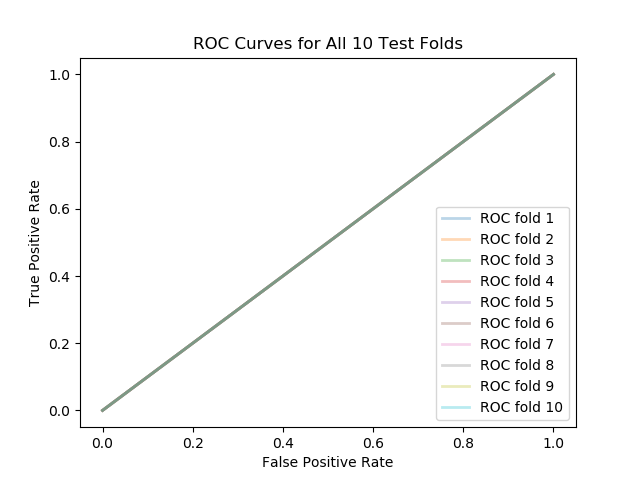
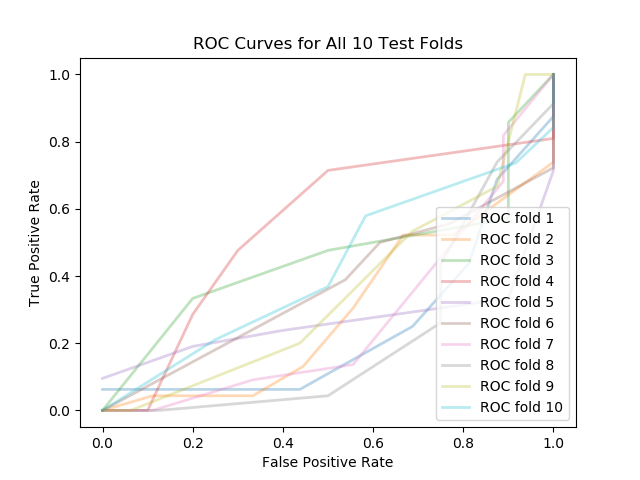
Added average ROC curve for logistic regression

diff --git a/draft/DistanceLogReg.py b/draft/DistanceLogReg.py
@@ -1,6 +1,7 @@
 import pandas as pd
 import numpy as np
 import matplotlib.pyplot as plt
+from scipy import interp
 from sklearn.utils import shuffle
 from sklearn.linear_model import LogisticRegression
 from sklearn.metrics import roc_curve,roc_auc_score, accuracy_score
@@ -49,22 +50,63 @@ def get_parameter(x, y):
     index = output.index(max(output))
     return K[index], output
 
-def train(k):
+def train(k, x ,y):
     clf = LogisticRegression(C=k)
     cv = KFold(n_splits=10,shuffle=False)
     # Compute ROC curve and ROC area
+    # i = 1
+    # fpr_list = []
+    # tpr_list = []
+    # print("Beginning our 10 fold cross validation")
+    # for train,test in cv.split(x,y):
+    #     y_score = clf.fit(x[train], y[train]).predict_proba(x[test])
+    #     y_score = y_score[:,0]
+    #     # Compute ROC curve
+    #     fpr, tpr, _ = roc_curve(y[test].ravel(), y_score.ravel())
+    #     fpr_list.append(fpr)
+    #     tpr_list.append(tpr)
+    #     i += 1
+
+    # Compute ROC curve and ROC area with averaging
+    tprs = []
+    aucs_val = []
+    base_fpr = np.linspace(0, 1, 101)
     i = 1
-    fpr_list = []
-    tpr_list = []
-    print("Beginning our 10 fold cross validation")
-    for train,test in cv.split(x,y):
-        y_score = clf.fit(x[train], y[train]).predict(x[test])
-        # Compute ROC curve
-        fpr, tpr, _ = roc_curve(y[test].ravel(), y_score.ravel())
-        fpr_list.append(fpr)
-        tpr_list.append(tpr)
+    for train, test in cv.split(x,y):
+        model = clf.fit(x[train], y[train])
+        y_score = model.predict_proba(x[test])
+        fpr, tpr, _ = roc_curve(y[test], y_score[:, 1])
+        auc = roc_auc_score(y[test], y_score[:,1])
+        plt.plot(fpr, tpr, 'b', alpha=0.15)
+        print("fold " + str(i) + " AUC: " + str(auc))
+        tpr = interp(base_fpr, fpr, tpr)
+        tpr[0] = 0.0
+        tprs.append(tpr)
+        aucs_val.append(auc)
         i += 1
-    return fpr_list, tpr_list
+
+    tprs = np.array(tprs)
+    mean_tprs = tprs.mean(axis=0)
+    std = tprs.std(axis=0)
+
+    tprs_upper = np.minimum(mean_tprs + std, 1)
+    tprs_lower = mean_tprs - std
+
+
+    plt.plot(base_fpr, mean_tprs, 'b', label = "Average AUC:" + str(sum(aucs_val)/len(aucs_val)))
+    plt.fill_between(base_fpr, tprs_lower, tprs_upper, color='grey', alpha=0.3)
+
+    plt.plot([0, 1], [0, 1],'r--')
+    plt.xlim([0, 1])
+    plt.ylim([0, 1])
+    plt.ylabel('True Positive Rate')
+    plt.xlabel('False Positive Rate')
+    plt.axes().set_aspect('equal', 'datalim')
+    plt.legend(loc="lower right")
+    plt.show()
+    plt.savefig('Avg_ROC.png')
+
+    #return fpr_list, tpr_list
 
 def display_output(fpr_list, tpr_list):
     for i in range(len(fpr_list)):
@@ -75,10 +117,11 @@ def display_output(fpr_list, tpr_list):
     plt.ylabel('True Positive Rate')
     plt.title('ROC Curves for All 10 Test Folds')
     plt.legend(loc="lower right")
-    plt.savefig('ROC.png')
+    plt.savefig('Avg_ROC.png')
 
 if __name__=="__main__":
     x,y = prepare_data(DATA_PATH)
     cv_parameter, acc_list = get_parameter(x,y)
-    fpr, tpr = train(cv_parameter)
-    display_output(fpr, tpr)
+    train(cv_parameter, x, y)
+    #fpr, tpr = train(cv_parameter, x, y)
+    #display_output(fpr, tpr)
